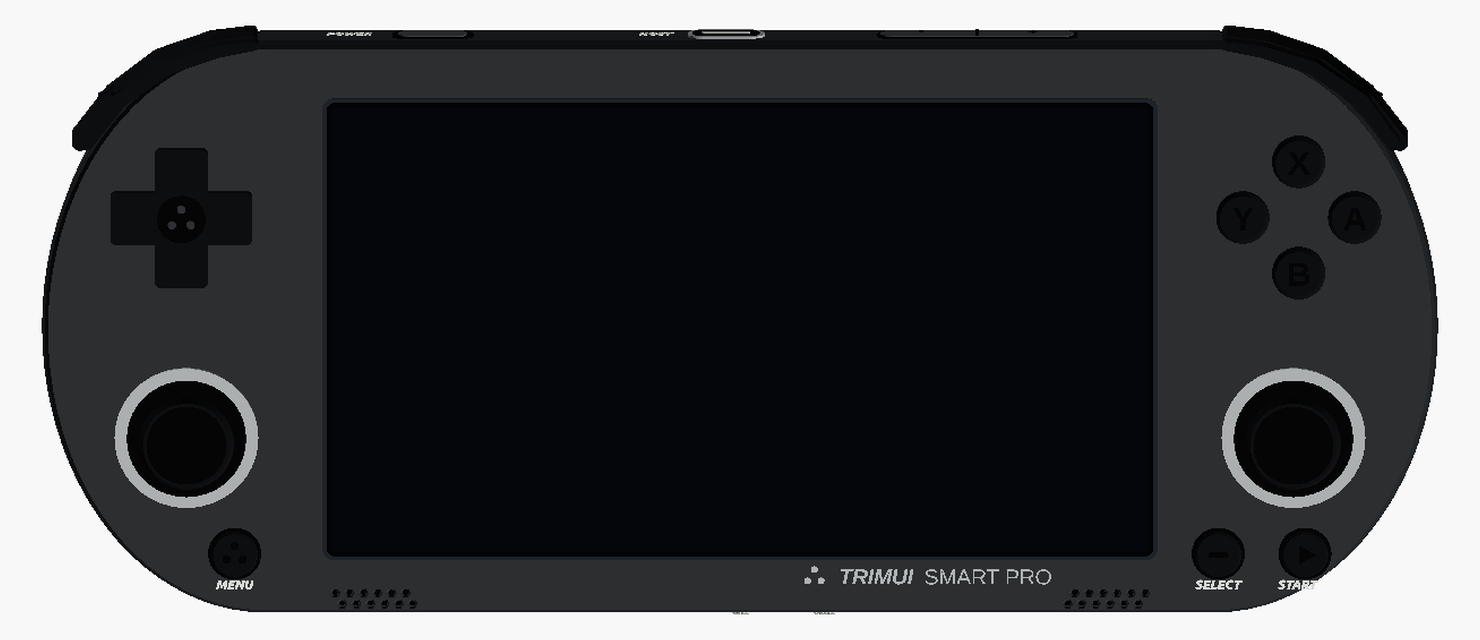
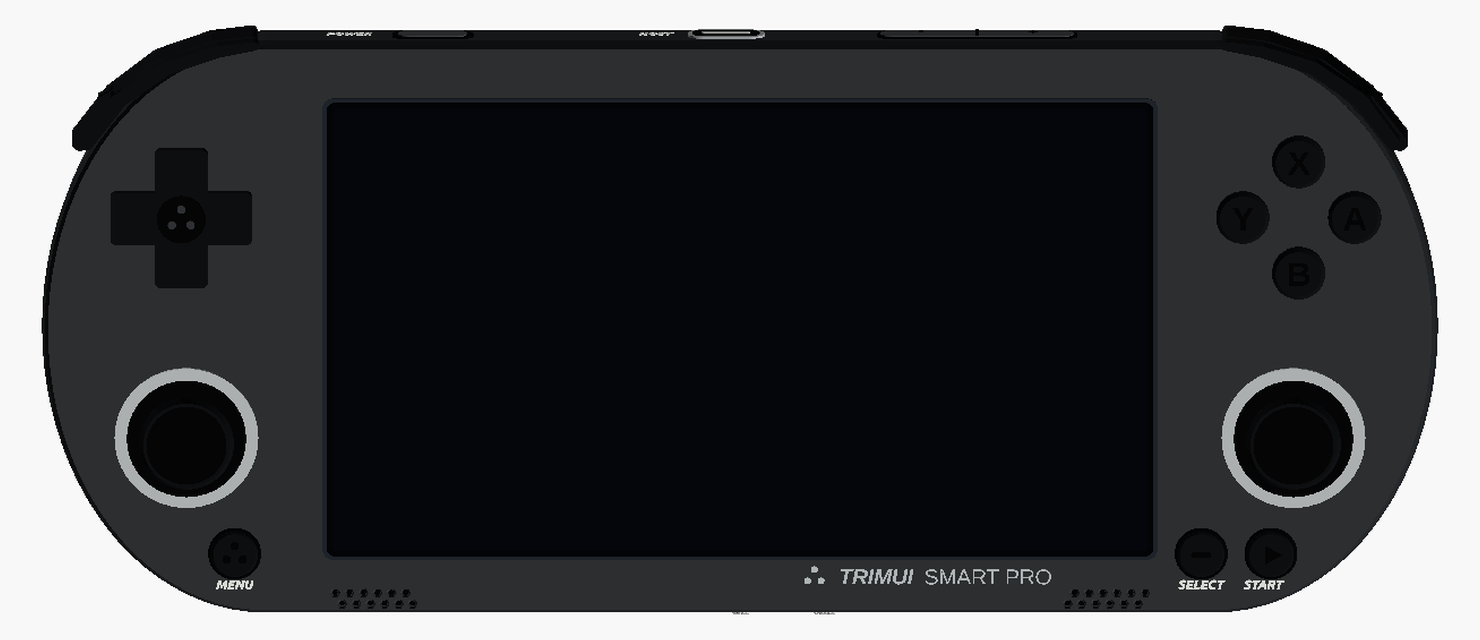
fix: move Smart Pro system buttons left

Changed region(s): [[0.777, 0.8125, 0.9014, 0.9375]]

diff --git a/device-models/trimui-smart-pro/README.md b/device-models/trimui-smart-pro/README.md
@@ -25,7 +25,7 @@ say which protrusions are included.
 | D-pad centre / size | (18.8, 55.7), 19.2 mm | FCC near-front view plus owner left-front close-up | Medium-high |
 | Stick centres | (19.5, 24.9), mirrored; 19.4 mm outer ring | FCC ruler view plus both owner front close-ups | Medium-high |
 | Face cluster | centre (169.55, 55.8), pitch 7.55 × 7.75 mm, buttons 7.2 mm | Owner right-front close-up | Medium-high |
-| Menu / Select / Start centres | (26.0, 8.8) / (158.7, 8.8) / (170.4, 8.8) | Owner front close-ups and FCC front view | Medium-high |
+| Menu / Select / Start centres | (26.0, 8.8) / (156.4, 8.8) / (165.8, 8.8) | Owner front close-ups and FCC front view | Medium-high |
 | Speaker grilles / front printing | Two mirrored 2 × 6 arrays of tapered hexagonal recesses, 1.90 mm horizontal pitch with a half-pitch row stagger; bold-italic system silkscreen; three-dot mark immediately precedes `TRIMUI SMART PRO` left of the right grille | Owner left/right front close-ups and owner correction collages | High for count/order/style; medium-high for photo-derived dimensions and placement |
 | Top-edge centres | power 0.28W, host 0.49W, volume − 0.63W, + 0.71W | Two overlapping owner top-edge photographs | Medium |
 | Top-edge control topology | Raised POWER key; rim/cavity/tongue HOST USB-C; one continuous volume rocker with centre seam | Owner top-edge macros and owner correction collages | Medium-high |
